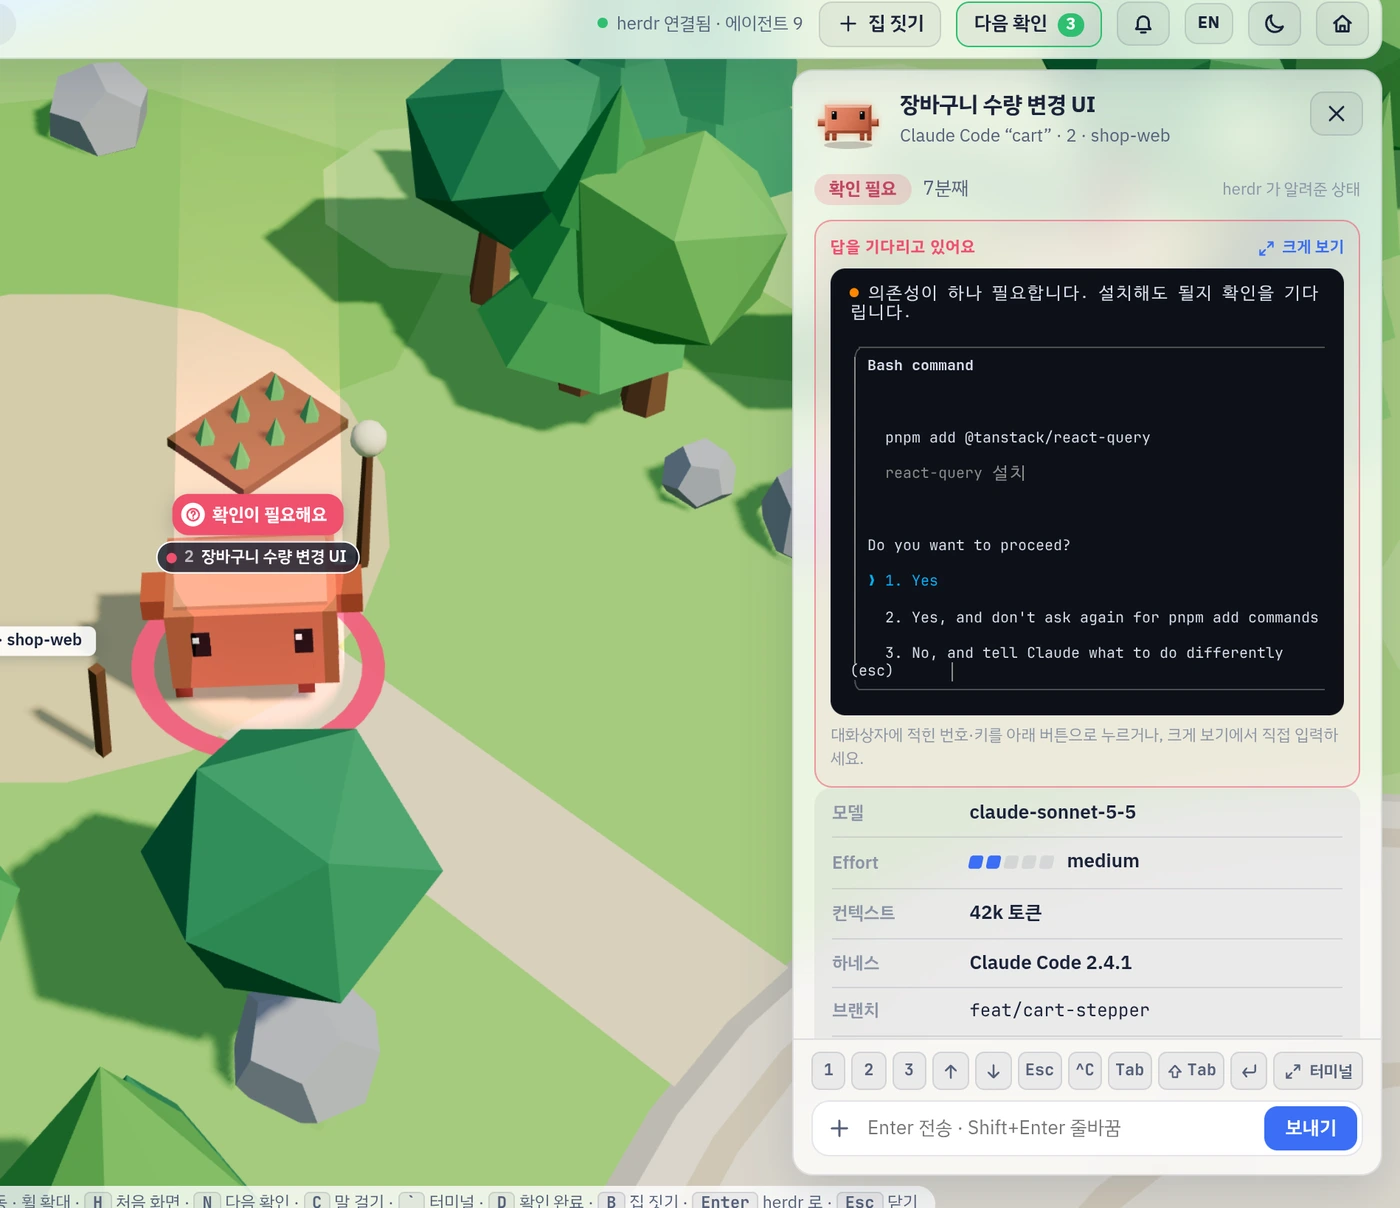
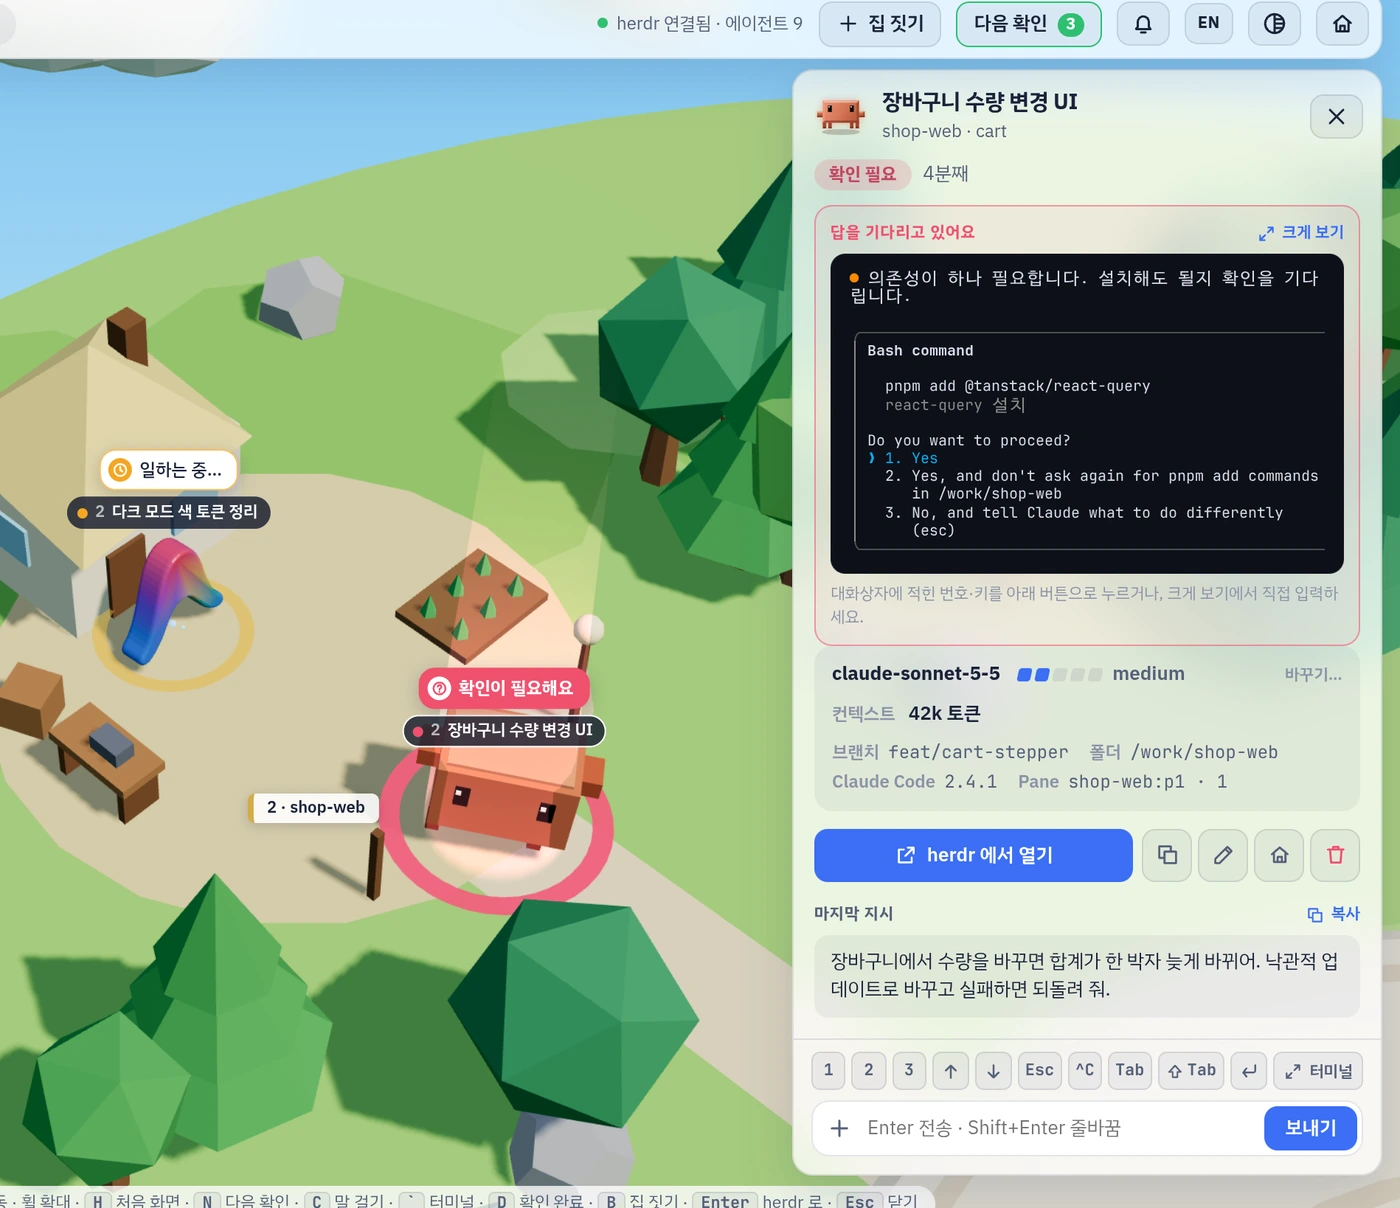
README·홈페이지의 주민 상태 창 그림을 집터를 비추는 지금 화면으로 다시 찍는다

diff --git a/README.md b/README.md
@@ -27,7 +27,7 @@ herdr plugin install KyongSik-Yoon/agent-world
 
 ### 캐릭터를 누르면 상태 창
 
-<img src="docs/img/detail.webp" alt="작업 중인 캐릭터의 상태 창. 모델, effort, 컨텍스트, 브랜치와 마지막 지시·응답이 보이고 아래에 빠른 키 줄과 입력창이 있다" width="960">
+<img src="docs/img/detail.webp" alt="작업 중인 캐릭터의 상태 창. 모델, effort, 컨텍스트, 브랜치와 마지막 지시·응답이 보이고 아래에 빠른 키 줄과 입력창이 있다. 카메라는 그 캐릭터가 사는 집을 비추고, 가운데 아래에는 그 터미널 화면이 흐른다" width="960">
 
 모델, effort, 컨텍스트, 마지막 지시와 응답, 활동 로그, 터미널 화면이 한 창에 나옵니다. 카메라는 그 캐릭터가 사는 집터를 비추고(완료한 캐릭터는 광장), 같은 집의 다른 캐릭터를 고르면 움직이지 않습니다. 창을 닫으면(✕ 또는 Esc) 보던 자리와 배율로 돌아옵니다. 넓은 화면에서는 목록과 상태 창 사이 아래쪽에 그 캐릭터의 터미널 화면이 흐릅니다. 누르면 크게 열리고, ✕ 로 접으면 상태 창 안에서 봅니다. 창이 좁으면 왼쪽 가장자리를 끌어 넓히면 됩니다. 맞춘 폭은 브라우저가 기억하고, 두 번 누르면 처음 폭으로 돌아갑니다. 마지막 지시와 마지막 응답은 제목 옆의 `복사`로 원문(마크다운 그대로)을 가져갈 수 있습니다. 활동 로그는 한 줄 요약이라 길면 잘리는데, 줄을 누르면 그 활동의 원문(응답 전문, 실제로 돌린 명령)이 펼쳐집니다.
 

diff --git a/README.en.md b/README.en.md
@@ -19,7 +19,7 @@ Click a character to open its status window: model, effort, context, last prompt
 terminal screen. `Copy` next to the last prompt and the last reply takes the original text (Markdown as written). The activity log shows one-line summaries; tap a line to expand that activity in full (the whole reply, the exact command it ran). The camera frames the house that character lives in (the plaza for one that is done) and stays put when you pick a housemate; closing the window (✕ or Esc) returns to where you were. On a wide screen the character's terminal runs in the space between the roster and the status window: click it to open the full terminal, or fold it with ✕ to read it inside the status window instead.
 `Open in herdr` (Enter) switches herdr to that pane and, on Hyprland, brings the terminal window to the front.
 
-<img src="docs/img/detail.webp" alt="The status window of a working character: model, effort, context, branch, last prompt and reply, with the quick-key row and input below" width="960">
+<img src="docs/img/detail.webp" alt="The status window of a working character: model, effort, context, branch, last prompt and reply, with the quick-key row and input below. The camera frames the house it lives in, and its terminal runs in the centre below" width="960">
 
 The screenshots come from a test session that imitates a made-up project (`dev/mock-herdr.ts`), shown in the default Korean UI.
 
